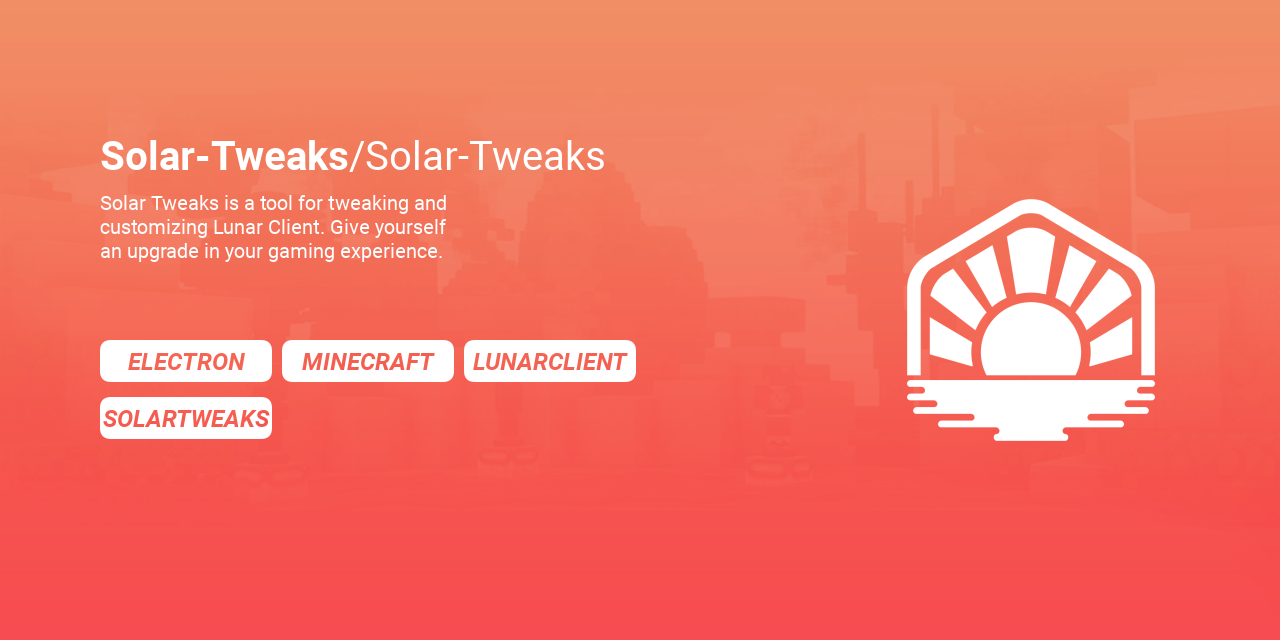
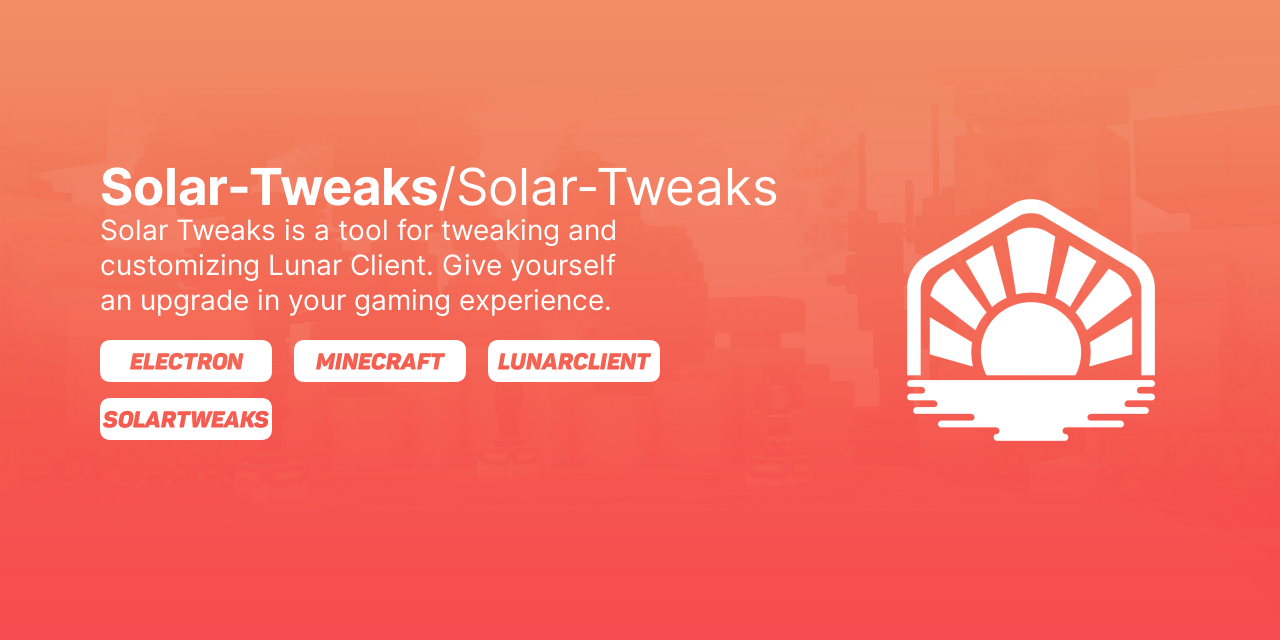
refactor: :recycle: improved font and positioning

diff --git a/src/index.js b/src/index.js
@@ -2,6 +2,8 @@ const { createCanvas, loadImage } = require('canvas');
 const { writeFile } = require('node:fs/promises');
 const { join } = require('node:path');
 
+const font = 'Inter';
+
 (async () => {
   let input;
   try {
@@ -44,15 +46,15 @@ const { join } = require('node:path');
   // TITLE
   const title = input.title.split('/');
   context.fillStyle = '#ffffff';
-  context.font = 'bold 30pt Roboto';
+  context.font = `bold 38pt ${font}`;
   const firstWith = context.measureText(title[0]).width;
-  context.fillText(title[0], 100, 170);
-  context.font = 'normal 30pt Roboto';
-  context.fillText(`/${title[1]}`, 100 + firstWith, 170);
+  context.fillText(title[0], 100, 205);
+  context.font = `normal 38pt ${font}`;
+  context.fillText(`/${title[1]}`, 100 + firstWith, 205);
 
-  // DESCRIPTION
-  context.font = 'light 15pt Roboto';
-  context.fillText(input.description, 100, 210);
+  // DESCRIPTION;
+  context.font = `extralight 21pt ${font}`;
+  context.fillText(input.description, 100, 240);
 
   // TAGS
   let row = 0,
@@ -64,12 +66,12 @@ const { join } = require('node:path');
     const _context = _canvas.getContext('2d');
     _context.fillStyle = '#ffffff';
     roundRect(_context, 1, 1, tagWith, tagHeight, 10);
-    const x = 100 + filledTags * (tagWith + 12);
-    const y = 340 + row * (tagHeight + 17);
+    const x = 100 + filledTags * (tagWith + 24);
+    const y = 340 + row * (tagHeight + 18);
 
-    const fontSize = '18';
+    const fontSize = '17';
     _context.fillStyle = '#ff0000';
-    _context.font = `italic bold ${18}pt Roboto`;
+    _context.font = `${fontSize}pt 'Panton Black italic Caps'`;
     _context.globalCompositeOperation = 'xor';
     _context.textAlign = 'center';
     _context.fillText(

diff --git a/README.md b/README.md
@@ -4,7 +4,7 @@ Simple app to create GitHub social preview images.
 
 Generated images are meant to be used as social preview images which means they perfectly fit inside the template.
 
-⚠ This image generator uses the [Roboto font](https://fonts.google.com/specimen/Roboto) so make sure you have it to get the best result!
+⚠ This image generator uses the [Inter font](https://fonts.google.com/specimen/Inter) & the Ponton font (Ponton Black italic Caps) so make sure you have them to get the best result!
 
 # Example
 
@@ -20,4 +20,4 @@ You can run the example script by doing
 
 And here is the result of the example script
 
-<img src="example/example.png" alt="Example image" width="640" style="border-radius: 10px">
+<img src="example/example.png" alt="Example image" width="640">
